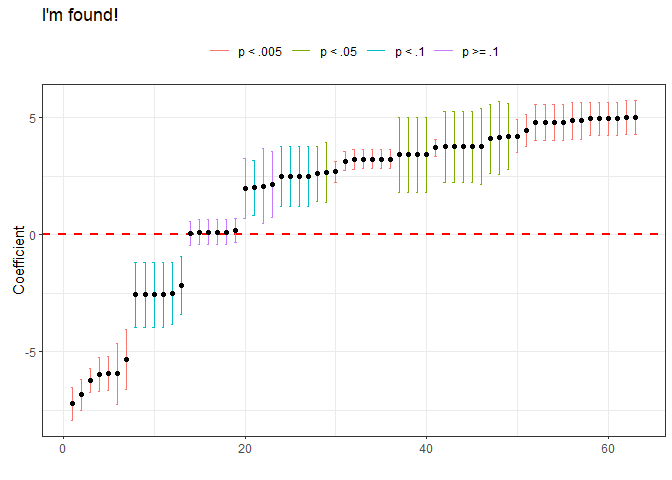
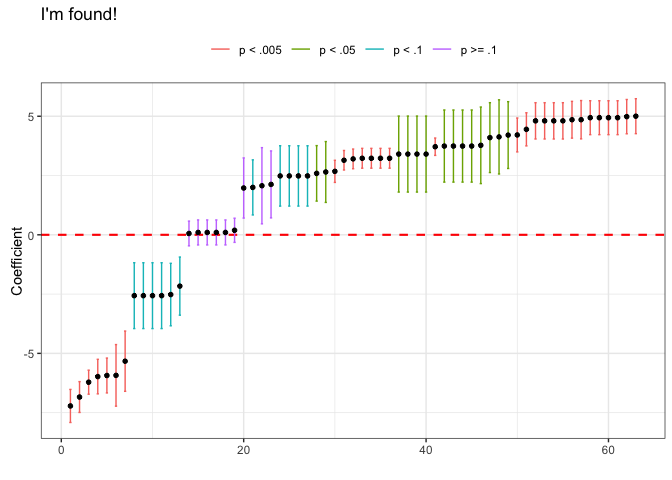
Re-knit README from README.Rmd
Regenerate README.md and its figures from the current source so the rendered
output matches the package as it now stands. Differences are inherent to
re-knitting: regenerated plot images, fresh (unseeded) bootstrap SE values,
new in-memory environment ids in the formula printout, and a minor ggplot2
stat_bin message wording change.

diff --git a/README.md b/README.md
@@ -252,7 +252,7 @@ Or maybe we want histograms:
 
 ``` r
 plotControlDistributions(s, type="histogram")
-#> `stat_bin()` using `bins = 30`. Pick better value with `binwidth`.
+#> `stat_bin()` using `bins = 30`. Pick better value `binwidth`.
 ```
 
 <img src="man/figures/README-unnamed-chunk-16-1.png" width="100%" />
@@ -289,13 +289,13 @@ se_compare(formula = "Salnty ~ T_degC + ChlorA", data = bottles,
            types = c("iid", "bootstrapped"),
            bootSamples=c(8, 10), bootSampleSize=c(200, 300))
 #>                  estimate         iid bootstrap_k8n200 bootstrap_k10n200
-#> (Intercept) 34.2940251811 0.097594017       0.15622103       0.118853774
-#> T_degC      -0.0599783335 0.007428642       0.01182771       0.009862705
-#> ChlorA       0.0006514447 0.012449618       0.06291394       0.048310059
+#> (Intercept) 34.2940251811 0.097594017       0.10468529        0.16947611
+#> T_degC      -0.0599783335 0.007428642       0.00652081        0.01425708
+#> ChlorA       0.0006514447 0.012449618       0.07140932        0.07822521
 #>             bootstrap_k8n300 bootstrap_k10n300
-#> (Intercept)       0.12172942       0.107378252
-#> T_degC            0.01131272       0.008436476
-#> ChlorA            0.02692236       0.023803066
+#> (Intercept)       0.05479602       0.106369136
+#> T_degC            0.00397893       0.008672805
+#> ChlorA            0.04452761       0.004257291
 ```
 
 Clustered standard errors are also supported:
@@ -316,8 +316,8 @@ se_compare(formula = "Salnty ~ T_degC + ChlorA | Sta_ID", data = bottles,
            types = c("CL_FE", "iid", "HC0", "HC1"))
 #>              estimate_FE       CL_FE      estimate         iid         HC0
 #> (Intercept)           NA          NA 34.2940251811 0.097594017 0.107876468
-#> T_degC      -0.056560122 0.011605252 -0.0599783335 0.007428642 0.008370367
-#> ChlorA      -0.003614691 0.007410004  0.0006514447 0.012449618 0.005327664
+#> T_degC      -0.056560122 0.009382055 -0.0599783335 0.007428642 0.008370367
+#> ChlorA      -0.003614691 0.012111659  0.0006514447 0.012449618 0.005327664
 #>                     HC1
 #> (Intercept) 0.109239172
 #> T_degC      0.008476102
@@ -361,31 +361,31 @@ formulae <- sca(y = "T_degC", x = "Salnty",
 formulae
 #> $`T_degC ~ Salnty + O2Sat`
 #> T_degC ~ Salnty + O2Sat
-#> <environment: 0x000001d4ba66cb20>
+#> <environment: 0x11cec0b90>
 #> 
 #> $`T_degC ~ Salnty + NO2uM`
 #> T_degC ~ Salnty + NO2uM
-#> <environment: 0x000001d4ba66cb20>
+#> <environment: 0x11cec0b90>
 #> 
 #> $`T_degC ~ Salnty + SiO3uM`
 #> T_degC ~ Salnty + SiO3uM
-#> <environment: 0x000001d4ba66cb20>
+#> <environment: 0x11cec0b90>
 #> 
 #> $`T_degC ~ Salnty + O2Sat + NO2uM`
 #> T_degC ~ Salnty + O2Sat + NO2uM
-#> <environment: 0x000001d4ba66cb20>
+#> <environment: 0x11cec0b90>
 #> 
 #> $`T_degC ~ Salnty + O2Sat + SiO3uM`
 #> T_degC ~ Salnty + O2Sat + SiO3uM
-#> <environment: 0x000001d4ba66cb20>
+#> <environment: 0x11cec0b90>
 #> 
 #> $`T_degC ~ Salnty + NO2uM + SiO3uM`
 #> T_degC ~ Salnty + NO2uM + SiO3uM
-#> <environment: 0x000001d4ba66cb20>
+#> <environment: 0x11cec0b90>
 #> 
 #> $`T_degC ~ Salnty + O2Sat + NO2uM + SiO3uM`
 #> T_degC ~ Salnty + O2Sat + NO2uM + SiO3uM
-#> <environment: 0x000001d4ba66cb20>
+#> <environment: 0x11cec0b90>
 ```
 
 Then it’s easy to estimate the models yourself with the pre-made
@@ -419,7 +419,7 @@ summary(my_own_models[[1]])
 
 # What’s next?
 
-Feel free to contact me at <zaynesember@gmail.com> to let me know of features
+Feel free to contact me at <zsember@ucsd.edu> to let me know of features
 you would find useful. Currently, I hope to add the following:
 
 - Plotting different types of standard errors
